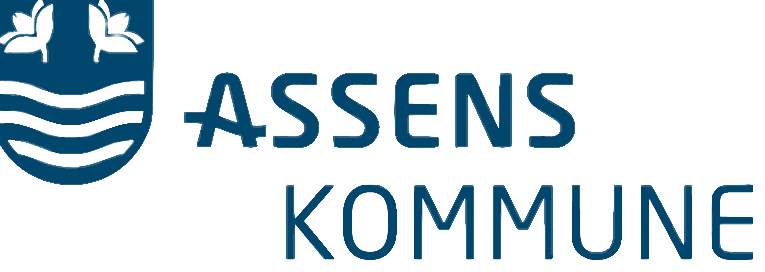
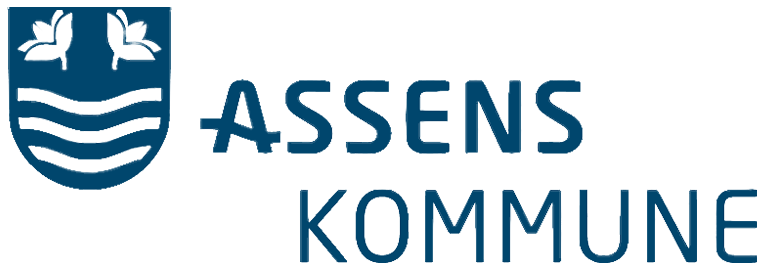
Header/navbar finished

Changed region(s): [[0.0, 0.0, 0.7817, 0.7059], [0.3608, 0.6765, 0.9922, 0.9706]]

diff --git a/index.html b/index.html
@@ -9,29 +9,31 @@
   </head>
   <body>
     <header>
-      <div class"logobar"><a href="index.html"><img src="kommune.png" alt="Assens Kommune logo"></a></div>
+      <div class="banner"><a href="index.html"><img src="kommune.png" alt="Assens Kommune logo"></a></div>
       <nav>
-        <li><a href="#index.html"><a>Assens Kommune</li>
-        <li><a href="#index.html"><a>Assens Bibliotek</li>
-        <li><a href="#index.html"><a>Åbningstider</li>
+        <ul>
+          <li><a href="#index.html">Assens Kommune</a></li>
+          <li><a href="#index.html">Assens Bibliotek</a></li>
+          <li><a href="#index.html">Åbningstider</a></li>
+        </ul>
       </nav>
     </header>
     <main>
       <section class="section1">
-        <img src="#" alt="Skov">
+        <img src="path.png" alt="Skov">
         <h1>Lån en kørestol gratis</h1>
         <h2>- i op til 21 dage</h2>
         <p>Assens Kommune gør det nu muligt for ældre eller handicappede borgere, at låne er tur-kørestol på dit lokale bibliotek.</p>
         <div class="skew"> </div>
       </section>
-      <section>
+      <section class="section2">
         <div class="text1">
           <img src="bobble">
           <img src="#" alt="Assens Kommune blomst">
           <h1>Vidste du..</h1>
           <p>At borgere bosiddende i Assens Kommune har mulighed for at låne en kørestol? Det kræver, at man kontakter sit bibliotek enten personligt, på telefon eller pr. mail.
             <br><br>For at bestillingen kan udføres hurtigere, bedes man udfylde blanketten på forhånd.</p>
-          <a class="button" href="https://www.assensbib.dk/sites/www.assensbib.dk/files/files/news/skema_til_udlaan_af_tur-koerestol.pdf">Hent blanket</a>
+          <a class="button" href="https://www.assensbib.dk/sites/www.assensbib.dk/files/files/news/skema_til_udlaan_af_tur-koerestol.pdf" target="_blank">Hent blanket</a>
         </div>
         <div class="text1">
           <img src="bobble">

diff --git a/style.css b/style.css
@@ -109,9 +109,58 @@ input, select {
 }
 
 @font-face {
-  font-family: 'circularstd';
+  font-family: 'circularstd-bold';
   src: url(fonts/CircularStd-Bold.woff) format('woff');
     font-weight: 500;
 }
 
 /*------ MOBILE ------- */
+
+body {
+  background-color: #109829;
+  height: 100%;
+}
+
+.banner {
+  width: 100%;
+  height: 75px;
+  background-image: linear-gradient(#04F96F, #00A50F);
+}
+
+header img {
+  padding: 7.5px 0 7.5px 0;
+  margin: 0 auto;
+	display: block;
+  height: 60px;
+}
+
+nav {
+  display: block;
+  height: 120px;
+}
+
+nav ul {
+  border: 1px solid #006B14;
+}
+
+header li {
+  list-style-type: none;
+  text-align: center;
+  display: block;
+  height: 40px;
+  border-bottom: 1px solid #006B14;
+}
+
+header li a {
+  text-decoration: inherit;
+  padding: 10px 0;
+  display: block;
+  font-family: circularstd-bold;
+  font-size: 20px;
+  color: #00466D;
+}
+
+.section1 img {
+  max-width: 100%;
+  display: block;
+}
